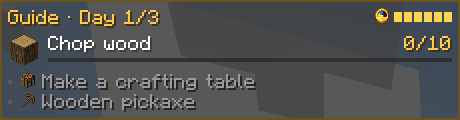
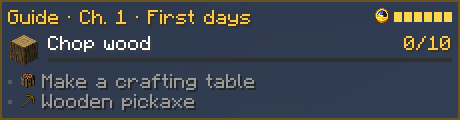
New task card screenshot: chapter 1 without a day counter
Claude-Session: https://claude.ai/code/session_011PuyyXUUN9BJ7DVYhjQ58t

diff --git a/README.md b/README.md
@@ -87,7 +87,7 @@ archaeology, the trial challenges, the happy ghast and automation.
 
 ### Task card (top-left by default)
 <p>
-  <img src="docs/images/task-card.png" alt="Task card: Guide, Day 1/3, current task Chop wood 0/10, next: Make a crafting table, Wooden pickaxe" width="460">
+  <img src="docs/images/task-card.png" alt="Task card: Guide, Ch. 1, First days, current task Chop wood 0/10, next: Make a crafting table, Wooden pickaxe" width="460">
   <img src="docs/images/task-card-full.png" alt="Task card in full view: all 15 goals with the recipe of the current task below" width="460" align="top">
 </p>
 <p>
